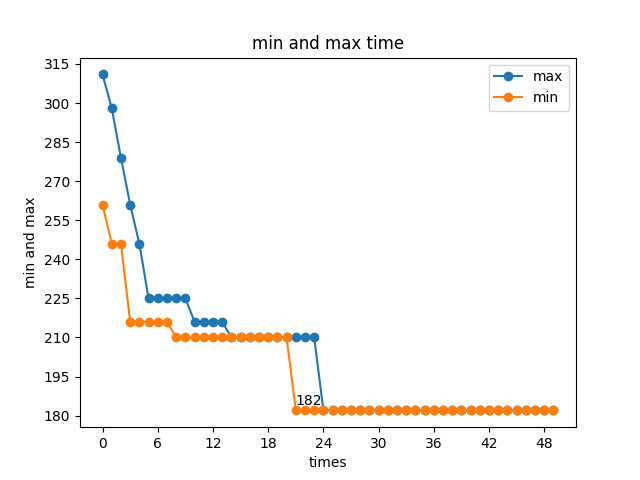
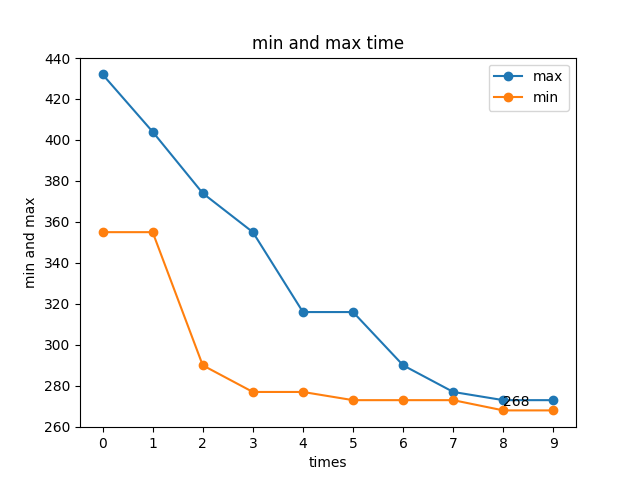
change figure

diff --git a/app.py b/app.py
@@ -17,8 +17,6 @@ def run_ga(solution: genetic_algorithm):
         solution.selection()
         solution.update_best()
         solution.plt.append('best', solution.bestSolTimes)
-        # print(solution.bestSolTimes)
-    # 跑多次 找 平均 標準差 收斂
 
 def rm(path: str):
     shutil.rmtree(f'figure/{path}')
@@ -29,11 +27,17 @@ def remove_exist_file():
     rm('minmax')
 
 def draw_plt(bestSolTime: list):
+    try:
+        os.remove('figure/every-loop-best.png')
+    except:
+        pass
+
     plt.plot(bestSolTime)
     plt.title('every loops best value')
     plt.xlabel('loop i')
     plt.ylabel('best value')  
-    plt.savefig(f'figure/every-loop-best.png')
+    plt.savefig('figure/every-loop-best.png')
+    plt.close()
     print(f'avrage: {np.average(bestSolTime)} std: {np.std(bestSolTime)}')
 
 if __name__ == '__main__':
@@ -48,18 +52,17 @@ if __name__ == '__main__':
     japProblem = jap(table)
 
     gaParameter = {
-        'liveLoops' : 50,
+        'liveLoops' : 10,
         'jap' : japProblem,
         'popSize' : 5,
-        'geneSize' : len(table),
+        'geneSize' : len(japProblem.timeTable),
         'mutationRate' : 0.1,
-        'selectionRate' : 0.1,
         'mutationType' : mutation_type.Inversion,
         'selectionType' : selection_type.Deterministic,
         'crossoverType' : crossover_type.PartialCrossover
     }
 
-    loops = 10
+    loops = 50
     data = []
     bestSolTime = []
     remove_exist_file()

diff --git a/ga.py b/ga.py
@@ -36,7 +36,6 @@ class genetic_algorithm():
         self.popSize = parameter['popSize']
         self.geneSize = parameter['geneSize']
         self.mutationRate = parameter['mutationRate']
-        self.selectionRate = parameter['selectionRate']
         self.mutationType = parameter['mutationType']
         self.selectionType = parameter['selectionType']
         self.crossoverType = parameter['crossoverType']
@@ -74,9 +73,6 @@ class genetic_algorithm():
         leftBound = random.randint(0, self.geneSize - 2)
         rightBound = random.randint(leftBound + 1, self.geneSize - 1)
         return leftBound, rightBound
-
-    def shuffle(self):
-        pass
 
     def partial_crossover(self, p1: int, p2: int):
         childList = self.childList
